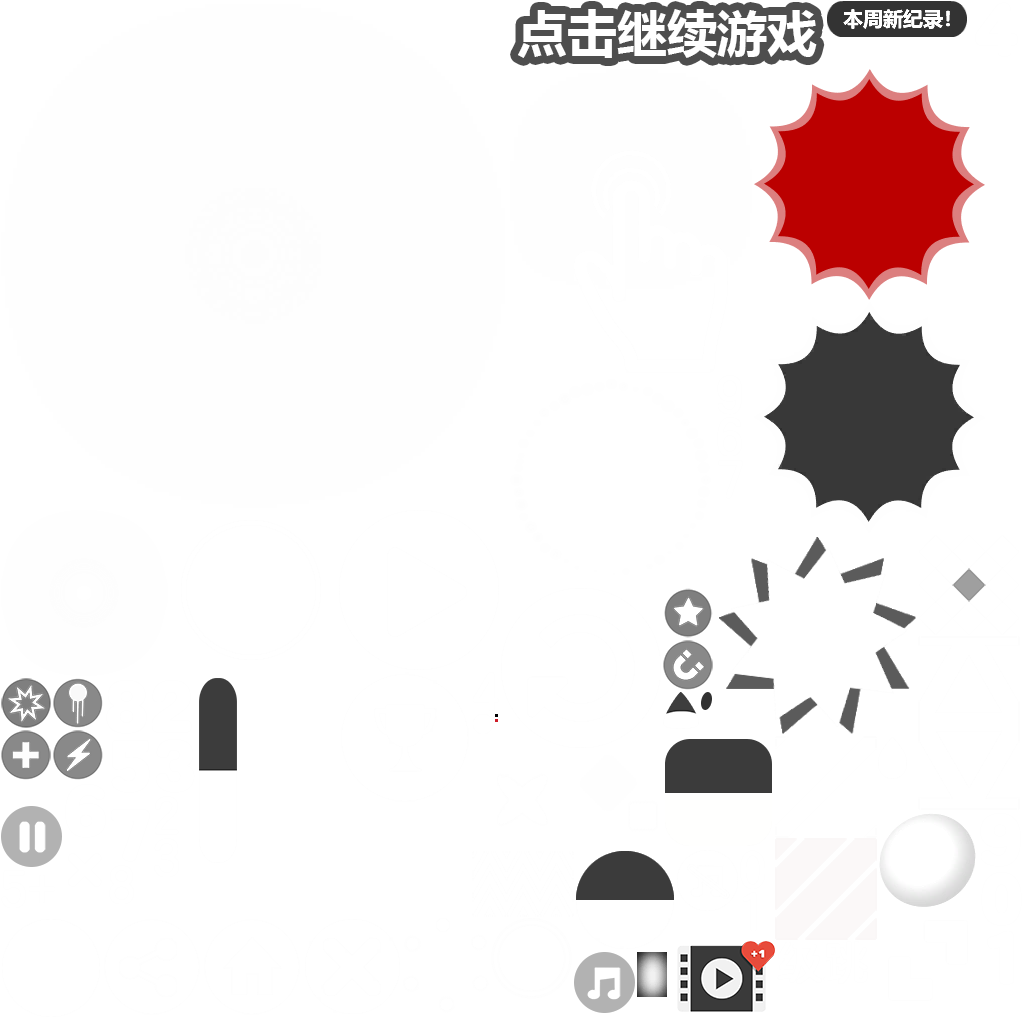
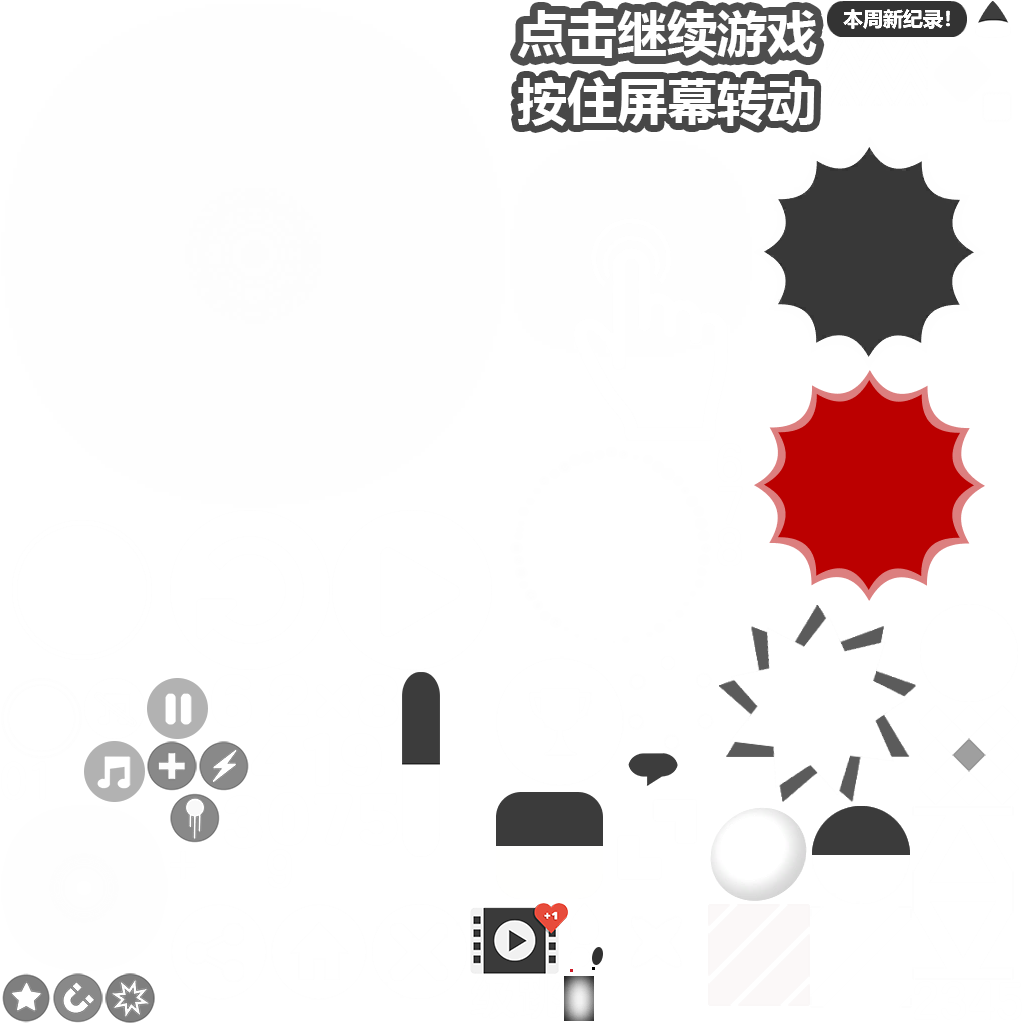
1

diff --git a/src/performance/ui/TextureBackground.ts b/src/performance/ui/TextureBackground.ts
@@ -6,16 +6,19 @@ module leap {
 		
 		constructFromResource(){
             super.constructFromResource();
-            let self = this;         
+            let self = this;   
+			let w = utils.StageUtils.stageWidth;
+			let h = utils.StageUtils.stageHeight;
+			self.x = w / 2;
+			self.y = h / 2;      
 			self.imgs = [];
-			self.imgs.push(self.getChild("n1").asImage);
-			self.imgs.push(self.getChild("n2").asImage);
-			self.imgs.push(self.getChild("n3").asImage);
-			self.imgs.push(self.getChild("n4").asImage);
-			self.imgs.push(self.getChild("n5").asImage);
-			self.imgs.push(self.getChild("n6").asImage);
-			self.imgs.push(self.getChild("n7").asImage);
-			self.imgs.push(self.getChild("n8").asImage);
+			let size = Math.ceil(Math.sqrt(w * w + h * h));
+			for(let i = 1; i <= 8; i++){
+				let img = self.getChild("n" + i).asImage;
+				img.width = img.height = size;
+				img.setPivot(0.5, 0.5, true);
+				self.imgs.push(img);
+			}
         }
 
 		public show(){

diff --git a/src/performance/ui/guide/Guide3.ts b/src/performance/ui/guide/Guide3.ts
@@ -21,8 +21,8 @@ module leap {
 			World.instance.addItem(item.displayObject);
 
 			let pos = item.displayObject.parent.localToGlobal(item.x, item.y);
-			self.x = pos.x;
-			self.y = pos.y;
+			self.x = pos.x + 20;
+			self.y = pos.y - 20;
 			
 			self.getTransition("t0").play(() => {
 				utils.StageUtils.addEventListener(egret.TouchEvent.TOUCH_BEGIN, self.onStageTouch, self);

diff --git a/src/performance/ui/EndLine.ts b/src/performance/ui/EndLine.ts
@@ -35,7 +35,7 @@ module leap {
 			self.touchChildren = false;
 			self.line = fairygui.UIPackage.createObject("leap", "BaseImgWhite");
 			self.line.touchable = false;
-			self.line.width = 6;
+			self.line.width = 8;
 			self.line.pivotX = 0.5;
 			self.line.rotation = 180;
 			self.addChild(self.line.displayObject);

diff --git a/src/performance/ui/World.ts b/src/performance/ui/World.ts
@@ -113,7 +113,7 @@ module leap{
 			// 玩家连线
 			self.linkLine = fairygui.UIPackage.createObject("leap", "BaseImgWhite");
 			self.linkLine.touchable = false;
-			self.linkLine.width = 3;
+			self.linkLine.width = 4;
 			self.linkLine.pivotX = 0.5;
 			self.addChild(self.linkLine.displayObject);
 
